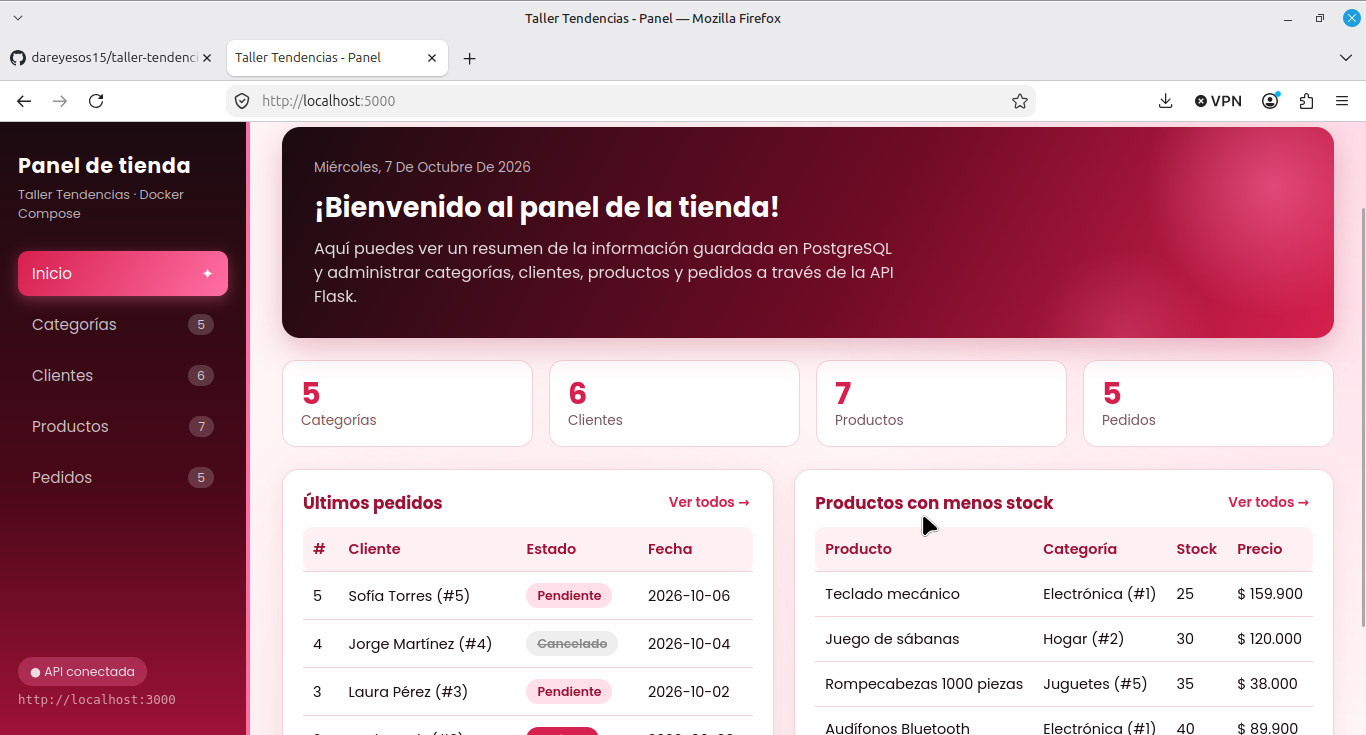
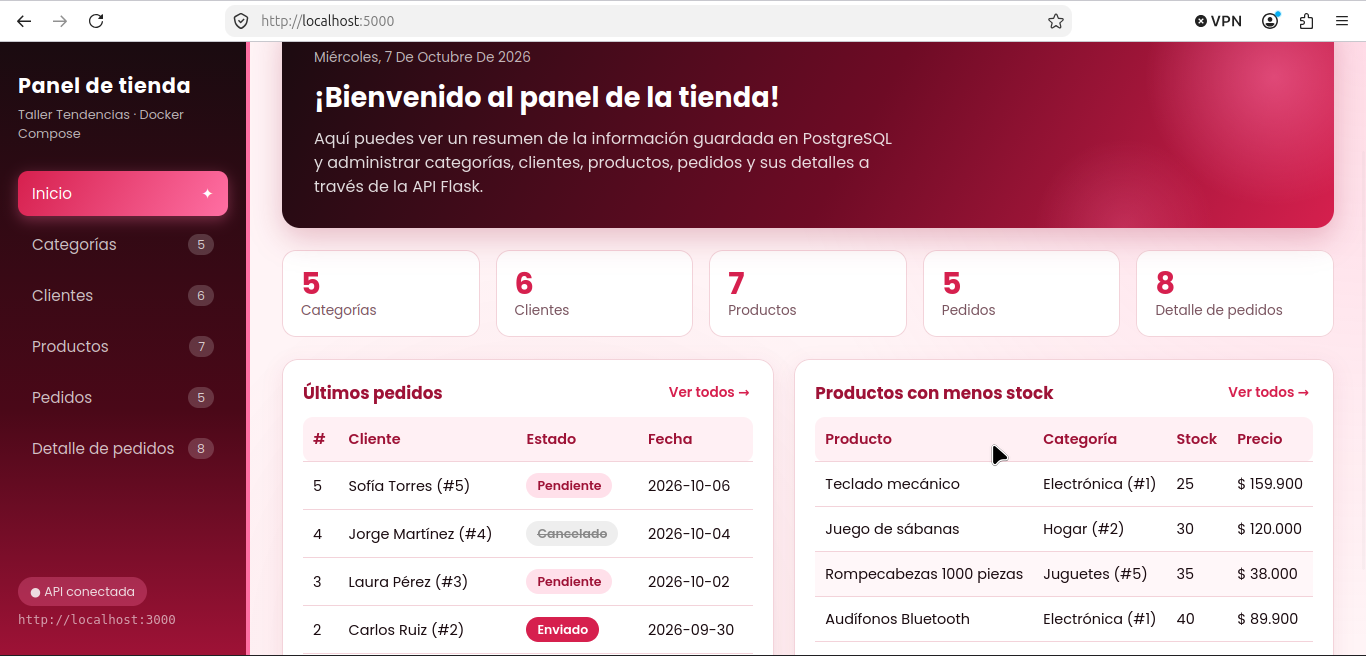
docs: document order details endpoint

diff --git a/README.md b/README.md
@@ -143,6 +143,7 @@ Recursos disponibles y sus campos (los obligatorios al crear van en **negrita**)
 | `clientes` | **`nombre`**, **`email`**, `ciudad` |
 | `productos` | **`nombre`**, **`precio`**, **`categoria_id`**, `stock` |
 | `pedidos` | **`cliente_id`**, `estado` (`pendiente`, `enviado`, `entregado` o `cancelado`) |
+| `detalle_pedido` | **`pedido_id`**, **`producto_id`**, **`cantidad`**, **`precio_unitario`** |
 
 ### Ejemplos con curl
 
@@ -159,6 +160,11 @@ curl -X POST http://localhost:3000/categorias \
 curl -X PUT http://localhost:3000/productos/1 \
      -H "Content-Type: application/json" \
      -d '{"precio": 79900}'
+
+# Agregar 2 unidades del producto 3 al pedido 5
+curl -X POST http://localhost:3000/detalle_pedido \
+     -H "Content-Type: application/json" \
+     -d '{"pedido_id": 5, "producto_id": 3, "cantidad": 2, "precio_unitario": 45000}'
 
 # Eliminar el cliente 6
 curl -X DELETE http://localhost:3000/clientes/6
@@ -204,7 +210,7 @@ En PowerShell de Windows hay que usar `curl.exe` en lugar de `curl`.
 
 ### 3. Frontend funcionando en el navegador
 
-`http://localhost:5000` servido por Nginx. La página consume los endpoints `/categorias`, `/clientes`, `/productos` y `/pedidos` con `fetch()`, muestra los registros en tablas y permite crear, editar y eliminar desde un formulario lateral.
+`http://localhost:5000` servido por Nginx. La página consume los endpoints `/categorias`, `/clientes`, `/productos`, `/pedidos` y `/detalle_pedido` con `fetch()`. La vista de inicio muestra un resumen (totales, últimos pedidos y productos con menos stock), y cada sección muestra sus registros en una tabla con buscador y permite crear, editar y eliminar desde un formulario lateral. En las relaciones se muestran nombres en lugar de solo ids (por ejemplo, "Pedido de Ana Gómez (#1)"), y al agregar un producto a un pedido se sugiere su precio actual.
 
 ![Frontend funcionando](docs/capturas/04-frontend.png)
 
